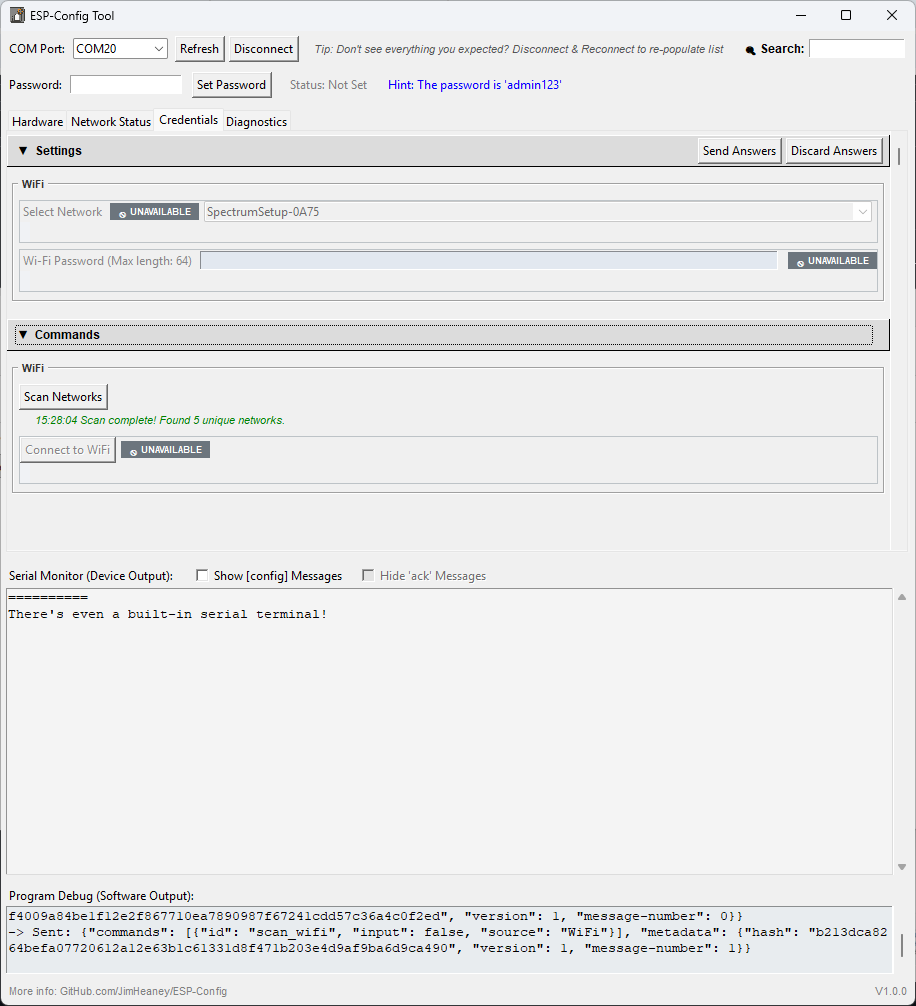
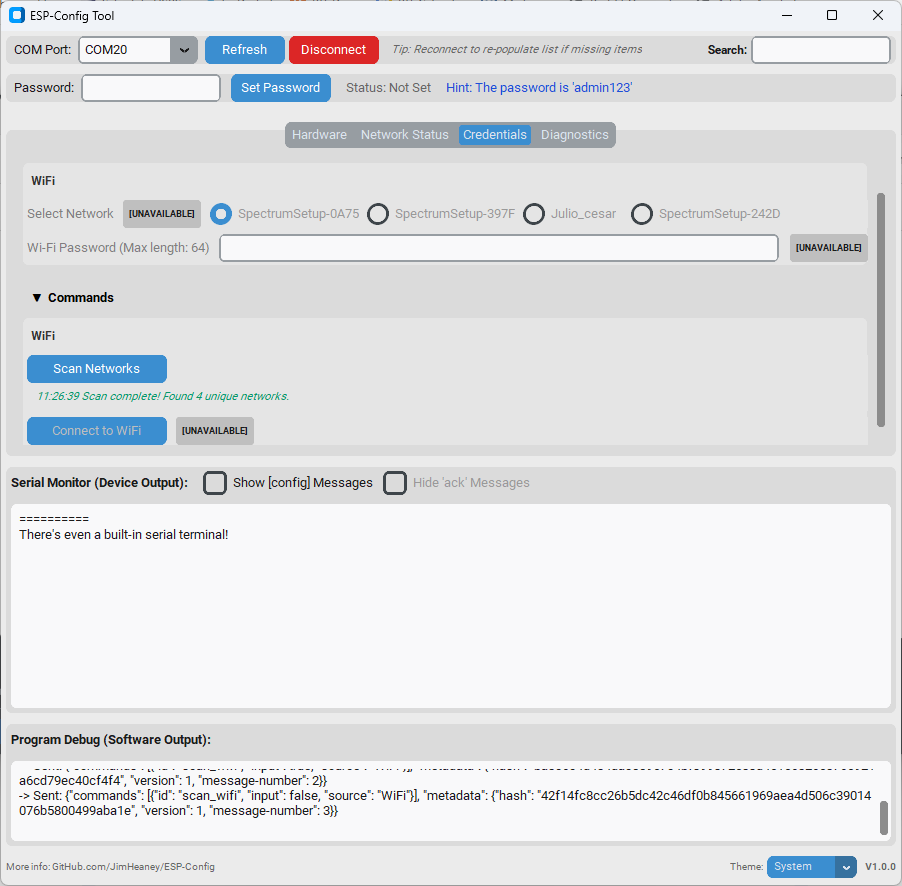
Updated docs

diff --git a/SCHEMA.md b/SCHEMA.md
@@ -1,8 +1,8 @@
-This document defines the JSON serial protocol used for communication between an ESP32 running `ESPConfig` and a host application over standard 115200 8N1 serial\[cite: 3].
+This document defines the JSON serial protocol used for communication between an ESP32 running `ESPConfig` and a host application over standard 115200 8N1 serial.
 
 
 
-Messages sent from the device are prefixed with `\[config]`\[cite: 3, 5]:
+Messages sent from the device are prefixed with `\[config]`:
 
 ```text
 
@@ -20,7 +20,7 @@ Messages sent from the device are prefixed with `\[config]`\[cite: 3, 5]:
 
 
 
-The root payload transmitted by the device can contain up to four top-level arrays/objects\[cite: 3]:
+The root payload transmitted by the device can contain up to four top-level arrays/objects:
 
 
 
@@ -28,7 +28,7 @@ The root payload transmitted by the device can contain up to four top-level arra
 
 
 
-Defines dynamic user inputs\[cite: 3].
+Defines dynamic user inputs.
 
 
 
@@ -36,31 +36,31 @@ Defines dynamic user inputs\[cite: 3].
 
 | :--- | :--- | :--- |
 
-| `id` | String | Identifier unique to the source\[cite: 3]. |
+| `id` | String | Identifier unique to the source. |
 
-| `source` | String | Originating subsystem or device\[cite: 3]. |
+| `source` | String | Originating subsystem or device. |
 
-| `category` | String | UI grouping category\[cite: 3]. |
+| `category` | String | UI grouping category. |
 
-| `type` | String | `"choice"`, `"selection"`, `"integer"`, or `"string"`\[cite: 3]. |
+| `type` | String | `"choice"`, `"selection"`, `"integer"`, or `"string"`. |
 
-| `prompt` | String | Label/question text presented to user\[cite: 3]. |
+| `prompt` | String | Label/question text presented to user. |
 
-| `current` | String/Array | Current stored value\[cite: 3]. |
+| `current` | String/Array | Current stored value. |
 
-| `options` | Array | Option strings for `"choice"` or `"selection"` types\[cite: 3]. |
+| `options` | Array | Option strings for `"choice"` or `"selection"` types. |
 
-| `lower-limit`| Integer | Minimum value for `"integer"` type\[cite: 3]. |
+| `lower-limit`| Integer | Minimum value for `"integer"` type. |
 
-| `upper-limit`| Integer | Maximum value for `"integer"` type\[cite: 3]. |
+| `upper-limit`| Integer | Maximum value for `"integer"` type. |
 
-| `max-length` | Integer | Max characters allowed for `"string"` type\[cite: 3]. |
+| `max-length` | Integer | Max characters allowed for `"string"` type. |
 
-| `message` | String | Feedback text associated with the question\[cite: 3]. |
+| `message` | String | Feedback text associated with the question. |
 
-| `protected` | Boolean | `true` if password authentication is required\[cite: 3]. |
+| `protected` | Boolean | `true` if password authentication is required. |
 
-| `unavailable`| Boolean | `true` if element should be greyed out/disabled in host UI\[cite: 5]. |
+| `unavailable`| Boolean | `true` if element should be greyed out/disabled in host UI. |
 
 
 
@@ -72,7 +72,7 @@ Defines dynamic user inputs\[cite: 3].
 
 
 
-Defines executable actions\[cite: 3].
+Defines executable actions.
 
 
 
@@ -80,25 +80,25 @@ Defines executable actions\[cite: 3].
 
 | :--- | :--- | :--- |
 
-| `id` | String | Unique action identifier\[cite: 3]. |
+| `id` | String | Unique action identifier. |
 
-| `source` | String | Subsystem origin\[cite: 3]. |
+| `source` | String | Subsystem origin. |
 
-| `category` | String | UI grouping category\[cite: 3]. |
+| `category` | String | UI grouping category. |
 
-| `type` | String | `"button"`, `"latch"`, or `"string"`\[cite: 3]. |
+| `type` | String | `"button"`, `"latch"`, or `"string"`. |
 
-| `title` | String | Button/control label text\[cite: 3]. |
+| `title` | String | Button/control label text. |
 
-| `pop-up` | String | Confirmation dialog text shown prior to execution\[cite: 3]. |
+| `pop-up` | String | Confirmation dialog text shown prior to execution. |
 
-| `message` | String | Status message string\[cite: 3]. |
+| `message` | String | Status message string. |
 
-| `imply-end` | Boolean | `true` if action causes device restart or disconnection\[cite: 3]. |
+| `imply-end` | Boolean | `true` if action causes device restart or disconnection. |
 
-| `protected` | Boolean | Requires password authentication\[cite: 3]. |
+| `protected` | Boolean | Requires password authentication. |
 
-| `unavailable`| Boolean | `true` if element should be greyed out/disabled\[cite: 5]. |
+| `unavailable`| Boolean | `true` if element should be greyed out/disabled. |
 
 
 
@@ -110,7 +110,7 @@ Defines executable actions\[cite: 3].
 
 
 
-Read-only diagnostic metrics\[cite: 3].
+Read-only diagnostic metrics.
 
 
 
@@ -118,17 +118,17 @@ Read-only diagnostic metrics\[cite: 3].
 
 | :--- | :--- | :--- |
 
-| `id` | String | Unique item identifier\[cite: 3]. |
+| `id` | String | Unique item identifier. |
 
-| `source` | String | Subsystem origin\[cite: 3]. |
+| `source` | String | Subsystem origin. |
 
-| `category` | String | UI grouping category\[cite: 3, 5]. |
+| `category` | String | UI grouping category. |
 
-| `title` | String | UI display label\[cite: 3]. |
+| `title` | String | UI display label. |
 
-| `value` | String | Read-only value string\[cite: 3]. |
+| `value` | String | Read-only value string. |
 
-| `explanation`| String | Detailed tooltip or subtext\[cite: 3]. |
+| `explanation`| String | Detailed tooltip or subtext. |
 
 
 
@@ -140,7 +140,7 @@ Read-only diagnostic metrics\[cite: 3].
 
 
 
-Protocol state and auth verification\[cite: 3].
+Protocol state and auth verification.
 
 
 
@@ -148,13 +148,13 @@ Protocol state and auth verification\[cite: 3].
 
 | :--- | :--- | :--- |
 
-| `version` | Integer | Protocol schema version\[cite: 3]. |
+| `version` | Integer | Protocol schema version. |
 
-| `message-number` | Integer | Incremental counter for frame tracking\[cite: 3]. |
+| `message-number` | Integer | Incremental counter for frame tracking. |
 
-| `password-correct` | Boolean | Auth state verification\[cite: 3]. |
+| `password-correct` | Boolean | Auth state verification. |
 
-| `hint` | String | Optional hint text for password authentication\[cite: 3]. |
+| `hint` | String | Optional hint text for password authentication. |
 
 
 
@@ -166,7 +166,7 @@ Protocol state and auth verification\[cite: 3].
 
 
 
-Sent by the host application to update answers, execute commands, or send credentials\[cite: 3].
+Sent by the host application to update answers, execute commands, or send credentials.
 
 
 
@@ -222,13 +222,13 @@ Sent by the host application to update answers, execute commands, or send creden
 
 
 
-Session initiation and heartbeat checks\[cite: 3]:
+Session initiation and heartbeat checks:
 
 
 
-\* \*\*Session Start (Host → Device)\*\*: `{"operation":"start"}`\[cite: 3]
+\* \*\*Session Start (Host → Device)\*\*: `{"operation":"start"}`
 
-\* \*\*Heartbeat Ping (Host → Device)\*\*: `{"operation":"check"}`\[cite: 3]
+\* \*\*Heartbeat Ping (Host → Device)\*\*: `{"operation":"check"}`
 
-\* \*\*Acknowledgment (Device → Host)\*\*: `{"operation":"ack","metadata":{...}}`\[cite: 3, 5]
+\* \*\*Acknowledgment (Device → Host)\*\*: `{"operation":"ack","metadata":{...}}`
 

diff --git a/README.md b/README.md
@@ -153,12 +153,14 @@ config.addStringCommand(source, id, category, title, stringCallback, maxLength, 
 ### 4. Adding Information (Read-Only Status)
 
 ```cpp
-config.addInformation(source, id, title, value, category, explanation);
+config.addInformation(source, id, category, title, value, explanation);
 // (source, id, category work the same as questions and commands)
-// title: the name of the information. Ex: "MAC Address: "
+// title: the name of the information. Ex: "MAC Address"
 // value: the value of the data. Ex: "00:00:00:00:00"
 // explanation: hover-over tooltip about what this info is.
 ```
+
+*Warning: The order of paramters is changed in V1.1!*
 
 ---
 
